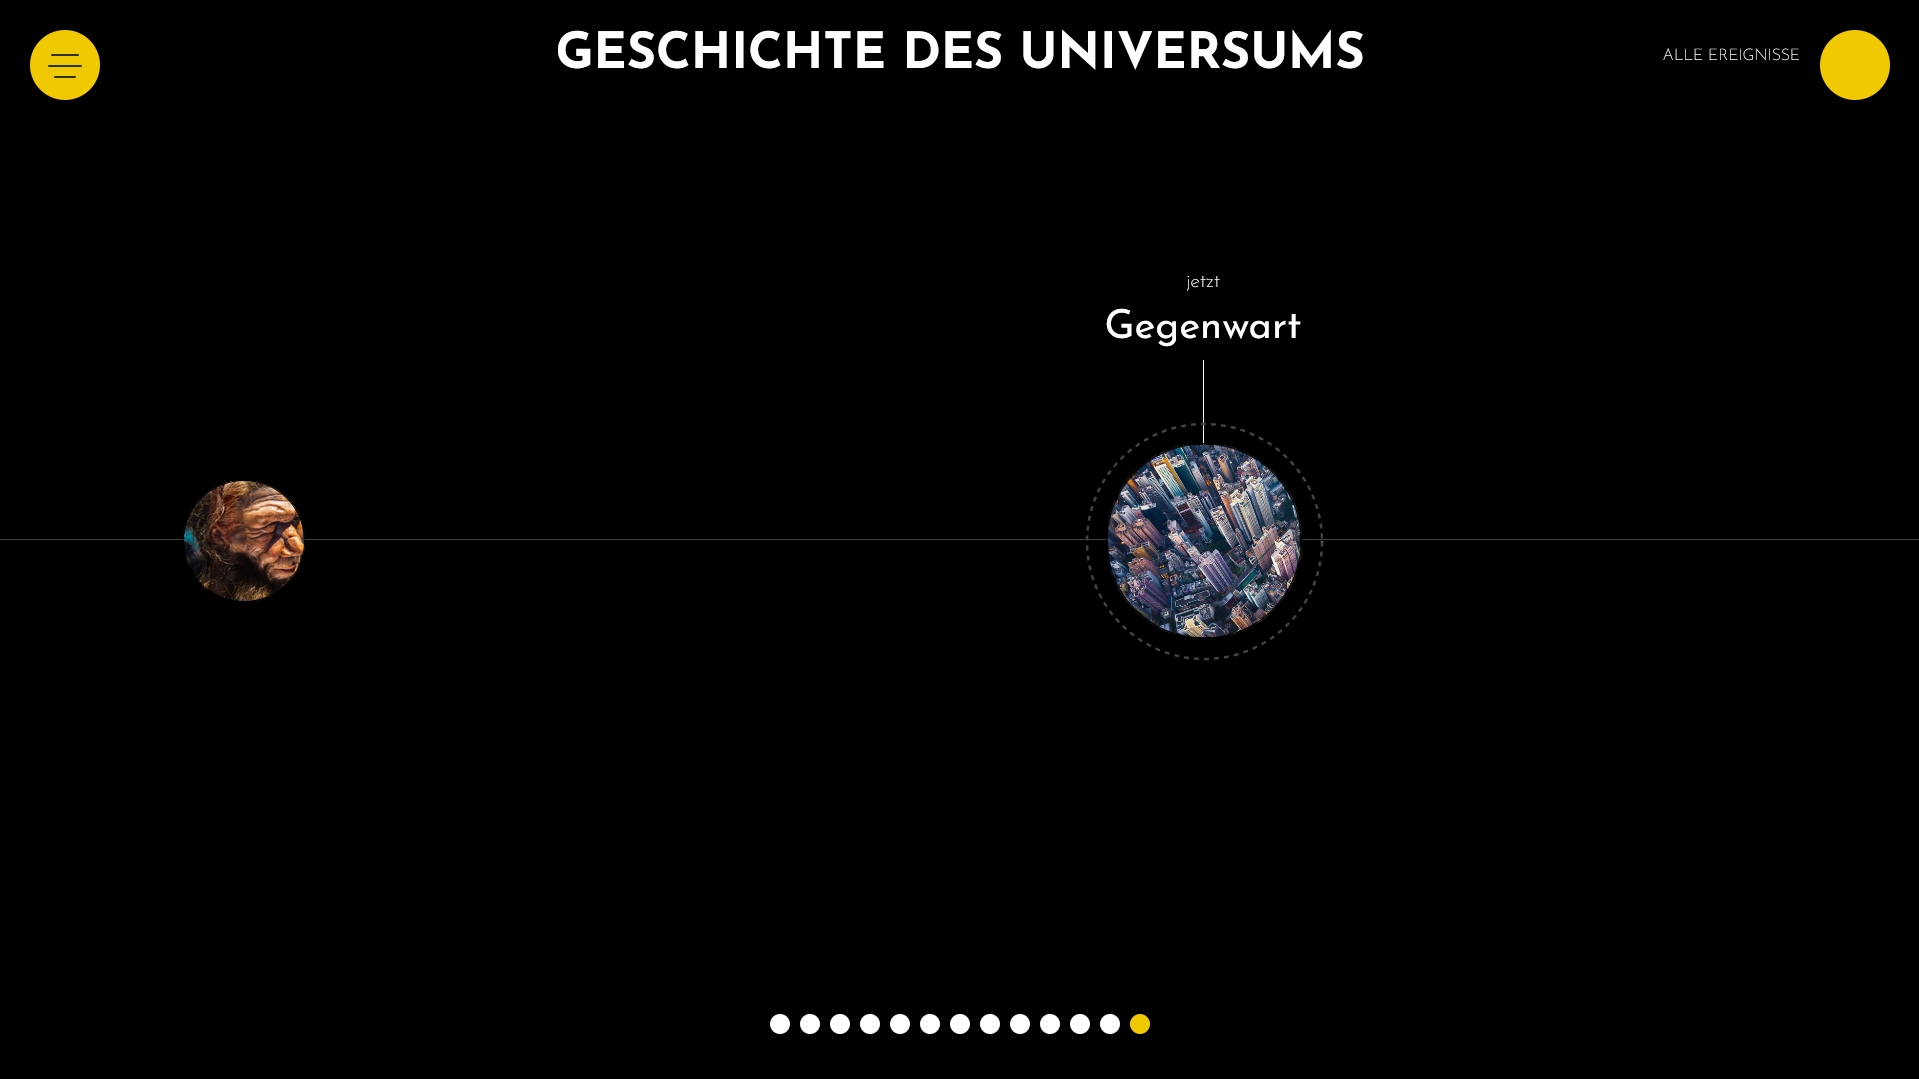
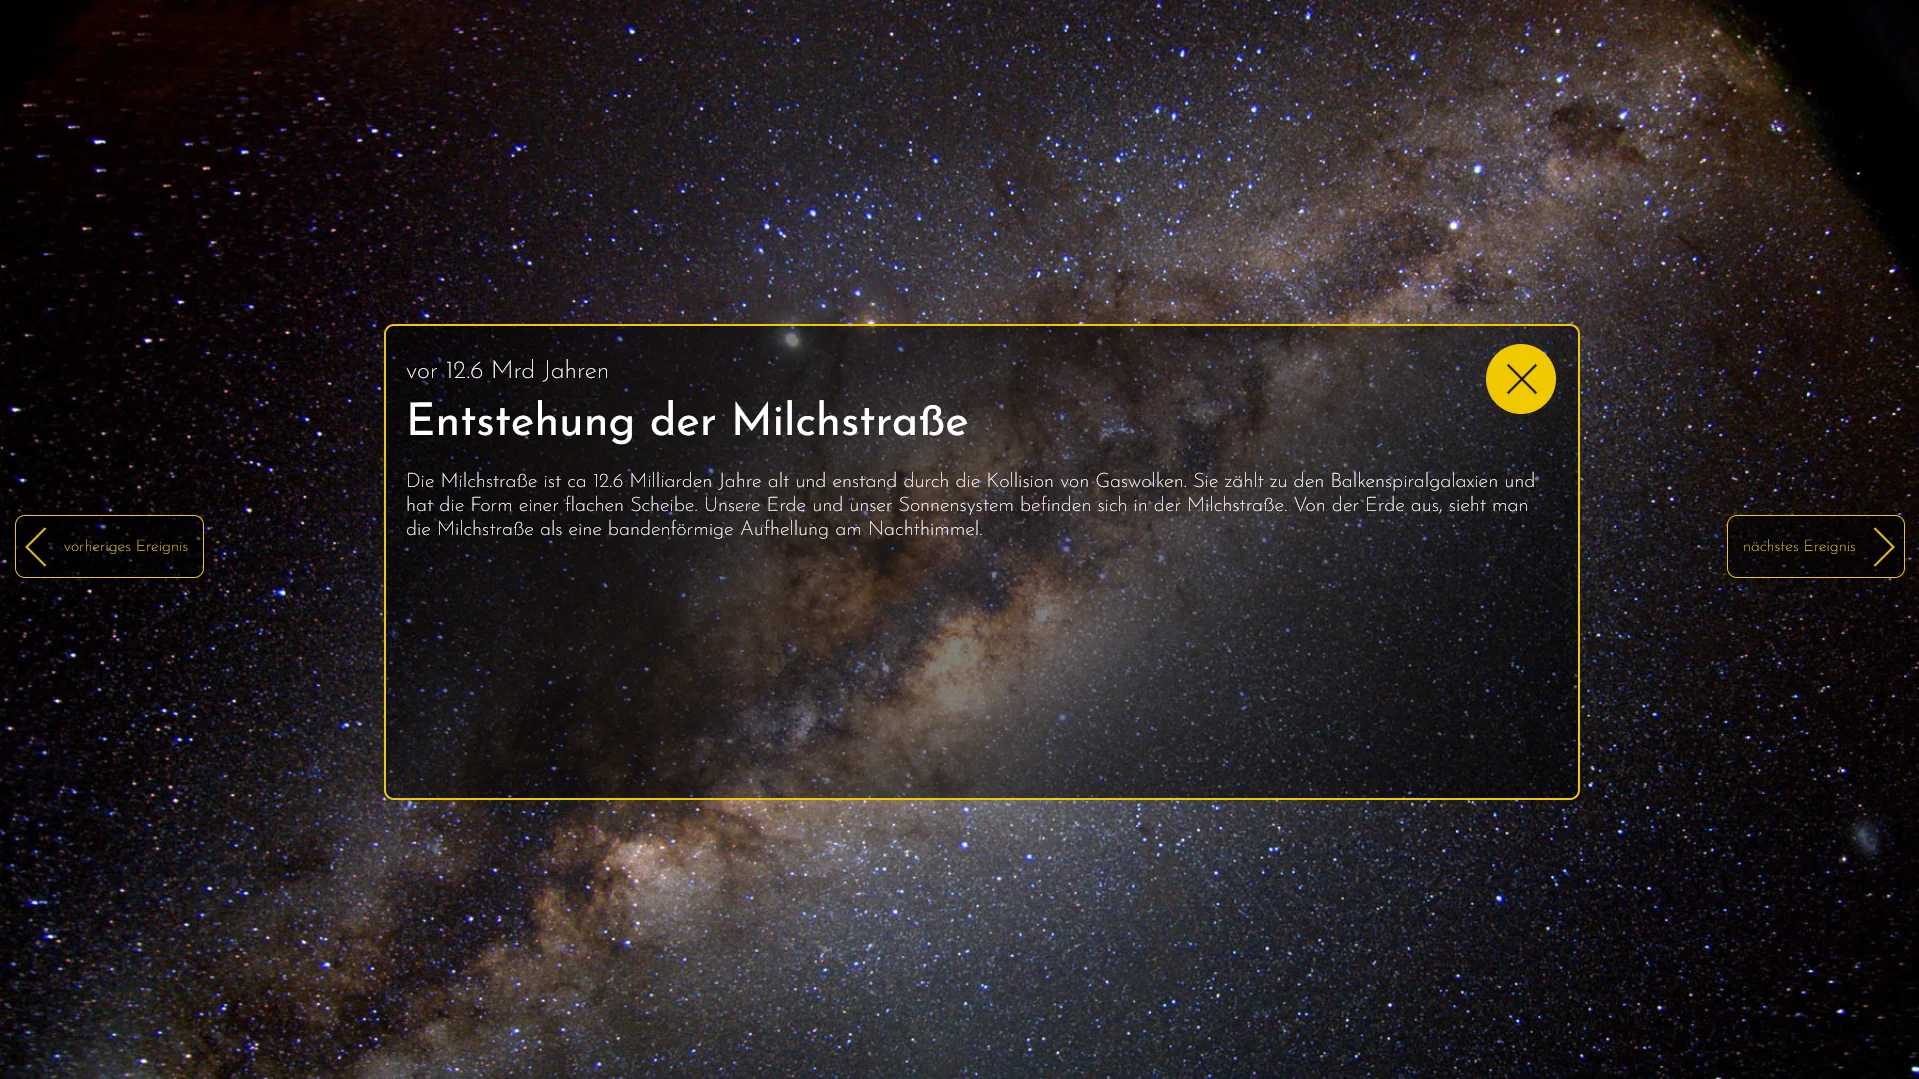
ui-verse page filled and imgs ordered

diff --git a/projects/ui-verse.html b/projects/ui-verse.html
@@ -136,7 +136,7 @@
     <!------------Global Header and Burger-Menu END------------>
     <div class="head-img-wrapper">
         <!-- >> insert thumbnail img here -->
-        <img class="project-head-img" src="../assets/project-assets/constructor-thumbnail.png" alt="">
+        <img class="project-head-img" src="../assets/project-assets/ui-verse/ui-verse-thumbnail.webp" alt="">
     </div>
     <section class="project-top-spacer">
 
@@ -147,12 +147,12 @@
                 <div class="project-details">
                     <div class="project-infos">
                         <!-- >> insert year and tags here -->
-                        <span class="project-year">2024</span>
-                        <span class="project-tags">[web-app, VR, co-located, multiplayer]</span>
+                        <span class="project-year">2020</span>
+                        <span class="project-tags">[web-design, interactive, timeline]</span>
                     </div>
                     <h2 class="project-title">
                         <!-- >> insert title here -->
-                        <span class="headline-text">VR-Pong</span>
+                        <span class="headline-text">UI-verse</span>
                     </h2>
                 </div>
                 <div class="project-text-wrapper">
@@ -160,24 +160,16 @@
                         <span class="brackets-headline">[About]</span>
                         <!-- >> insert description here -->
                         <p class="project-description appear-text-wrapper">
-                            VR-Pong ist ein co-located Multiplayer VR-Spiel, bei welchem bis zu vier Spieler in
-                            einer
-                            virtuellen
-                            Welt gegeneinander 3D-Pong spielen können. Das Besondere istm, dass die Spieler sich
-                            dafür
-                            in der
-                            echten Welt treffen und so ein neues Gefühl des gemeinsamen VR-Erlebens erfahren können.
-                            <br><br>
-                            Das Projekt war Teil meiner Master-Thesis an der HFU. VR-Pong wurde fürs Web mit webXR
-                            entwickelt
-                            und ist so ohne Installation über den Browser spielbar.
-                            Aktuell wird das Spiel teils auf Messen für Besucher ausgestellt.
+                            UI-verse entstand während meinem Bachelor-Studium. Bei dem Projekt handelt es sich um ein
+                            Prototyp für eine Webseite oder Installation für Museen. Der Nutzer soll auf einem
+                            Zeitstrahl interaktiv die Entstehungsgeschichte des Universums erkunden können. Der Prototyp
+                            wurde als Webseite umgesetzt.
                         </p>
                     </div>
                     <div class="project-tools-wrapper">
                         <span class="brackets-headline">[Tools]</span>
                         <!-- >> insert tools here -->
-                        <p class="project-tools">webXR, node.js, babylon.js, typescript</p>
+                        <p class="project-tools">javascript, Adobe XD</p>
                     </div>
                 </div>
             </div>
@@ -185,16 +177,17 @@
         <section id="project-imgs-section">
             <div class="project-imgs-wrapper">
                 <!-- >> insert imgs and videos here -->
-                <img class="project-img" src="../assets/project-assets/constructor-thumbnail.png" alt="">
-                <img class="project-img" src="../assets/project-assets/rising-weather-thumbnail.jpg" alt="">
-                <img class="project-img" src="../assets/project-assets/ui-verse-thumbnail.png" alt="">
-                <img class="project-img" src="../assets/project-assets/vr-pong-thumbnail.png" alt="">
+                <img class="project-img" src="../assets/project-assets/ui-verse/ui-verse-img-1.webp" alt="">
+                <img class="project-img" src="../assets/project-assets/ui-verse/ui-verse-img-2.webp" alt="">
+                <img class="project-img" src="../assets/project-assets/ui-verse/ui-verse-img-3.webp" alt="">
+                <video class="project-img" src="../assets/project-assets/ui-verse/ui-verse-video-1.mp4" muted loop></video>
+                <img class="project-img" src="../assets/project-assets/ui-verse/ui-verse-img-5.webp" alt="">
             </div>
         </section>
         <section id="next-project-section">
             <div class="next-project-wrapper">
                 <!-- >> insert next project link here -->
-                <a href="" class="next-project-link-wrapper next-project">
+                <a href="/projects/vr-pong.html" class="next-project-link-wrapper next-project">
                     <span class="brackets-headline">[Next Project]</span>
                     <div class="next-project-link nav-link">
                         <!-- >> insert next project title here -->
@@ -344,7 +337,7 @@
         <div class="cursor-wrapper">
             <div class="cursor-img-wrapper">
                 <!-- >> insert next project img here -->
-                <img class="cursor-img" src="" alt="">
+                <img class="cursor-img" src="/assets/project-assets/vr-pong/vr-pong-thumbnail.webp" alt="">
             </div>
         </div>
     </div>
